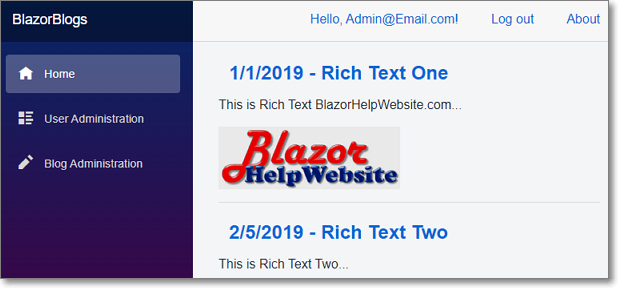
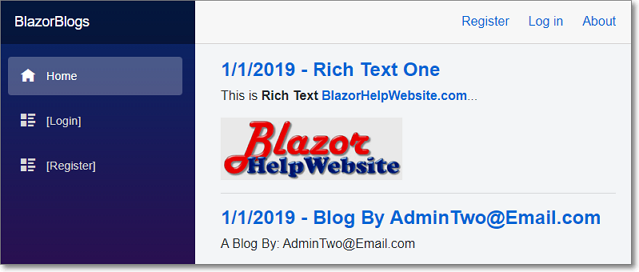
Added Main page navigation with parameters

diff --git a/BlazorBlogs/Data/BlazorBlogsContext.cs b/BlazorBlogs/Data/BlazorBlogsContext.cs
@@ -17,6 +17,7 @@ namespace BlazorBlogs.Data
         {
         }
 
+        public virtual DbSet<AspNetUsers> AspNetUsers { get; set; }
         public virtual DbSet<BlogCategory> BlogCategory { get; set; }
         public virtual DbSet<Blogs> Blogs { get; set; }
         public virtual DbSet<Categorys> Categorys { get; set; }
@@ -34,6 +35,29 @@ namespace BlazorBlogs.Data
         protected override void OnModelCreating(ModelBuilder modelBuilder)
         {
             modelBuilder.HasAnnotation("ProductVersion", "2.2.0-rtm-35687");
+
+            modelBuilder.Entity<AspNetUsers>(entity =>
+            {
+                entity.HasIndex(e => e.NormalizedEmail)
+                    .HasName("EmailIndex");
+
+                entity.HasIndex(e => e.NormalizedUserName)
+                    .HasName("UserNameIndex")
+                    .IsUnique()
+                    .HasFilter("([NormalizedUserName] IS NOT NULL)");
+
+                entity.Property(e => e.Id).ValueGeneratedNever();
+
+                entity.Property(e => e.DisplayName).HasMaxLength(256);
+
+                entity.Property(e => e.Email).HasMaxLength(256);
+
+                entity.Property(e => e.NormalizedEmail).HasMaxLength(256);
+
+                entity.Property(e => e.NormalizedUserName).HasMaxLength(256);
+
+                entity.Property(e => e.UserName).HasMaxLength(256);
+            });
 
             modelBuilder.Entity<BlogCategory>(entity =>
             {
@@ -116,7 +140,7 @@ namespace BlazorBlogs.Data
 
                 entity.Property(e => e.LogAction)
                     .IsRequired()
-                    .HasMaxLength(50);
+                    .HasMaxLength(4000);
 
                 entity.Property(e => e.LogDate).HasColumnType("datetime");
 

diff --git a/BlazorBlogs/Data/Models/AspNetUsers.cs b/BlazorBlogs/Data/Models/AspNetUsers.cs
@@ -1,0 +1,27 @@
+// <auto-generated> This file has been auto generated by EF Core Power Tools. </auto-generated>
+using System;
+using System.Collections.Generic;
+
+namespace BlazorBlogs.Data.Models
+{
+    public partial class AspNetUsers
+    {
+        public string Id { get; set; }
+        public string UserName { get; set; }
+        public string NormalizedUserName { get; set; }
+        public string Email { get; set; }
+        public string NormalizedEmail { get; set; }
+        public bool EmailConfirmed { get; set; }
+        public string PasswordHash { get; set; }
+        public string SecurityStamp { get; set; }
+        public string ConcurrencyStamp { get; set; }
+        public string PhoneNumber { get; set; }
+        public bool PhoneNumberConfirmed { get; set; }
+        public bool TwoFactorEnabled { get; set; }
+        public DateTimeOffset? LockoutEnd { get; set; }
+        public bool LockoutEnabled { get; set; }
+        public int AccessFailedCount { get; set; }
+        public string DisplayName { get; set; }
+        public bool? NewsletterSubscriber { get; set; }
+    }
+}

diff --git a/BlazorBlogs/Data/BlogsService.cs b/BlazorBlogs/Data/BlogsService.cs
@@ -38,6 +38,30 @@ namespace BlazorBlogs.Data
         }
         #endregion
 
+        #region public async Task<Blogs> GetBlogAsync(int BlogId)
+        public async Task<Blogs> GetBlogAsync(int BlogId)
+        {
+            var objBlog = await _context.Blogs
+                .Where(x => x.BlogId == BlogId)
+                .FirstOrDefaultAsync();
+
+            // Try to get name
+            var objUser = await _context.AspNetUsers
+                .Where(x => x.Email.ToLower() == objBlog.BlogUserName)
+                .FirstOrDefaultAsync();
+
+            if(objUser != null)
+            {
+                if(objUser.DisplayName != null)
+                {
+                    objBlog.BlogUserName = objUser.DisplayName;
+                }
+            }
+
+            return objBlog;
+        }
+        #endregion
+
         #region public async Task<BlogsPaged> GetBlogsAdminAsync(string strUserName, int page)
         public async Task<BlogsPaged> GetBlogsAdminAsync(string strUserName, int page)
         {

diff --git a/BlazorBlogs/Data/Models/Settings.cs b/BlazorBlogs/Data/Models/Settings.cs
@@ -9,10 +9,5 @@ namespace BlazorBlogs.Data.Models
         public int SettingId { get; set; }
         public string SettingName { get; set; }
         public string SettingValue { get; set; }
-
-        internal object ToListAsync()
-        {
-            throw new NotImplementedException();
-        }
     }
 }

diff --git a/README.md b/README.md
@@ -5,6 +5,8 @@ Simple blogging application written in Microsoft Server Side Blazor
 
 ![Screenshot](BlazorBlogsMainPage.png)
 
+![Screenshot](BlazorBlogsMainPage2.png)
+
 ### Installing
 
 1) Create Database and run scripts in !SQL directory
